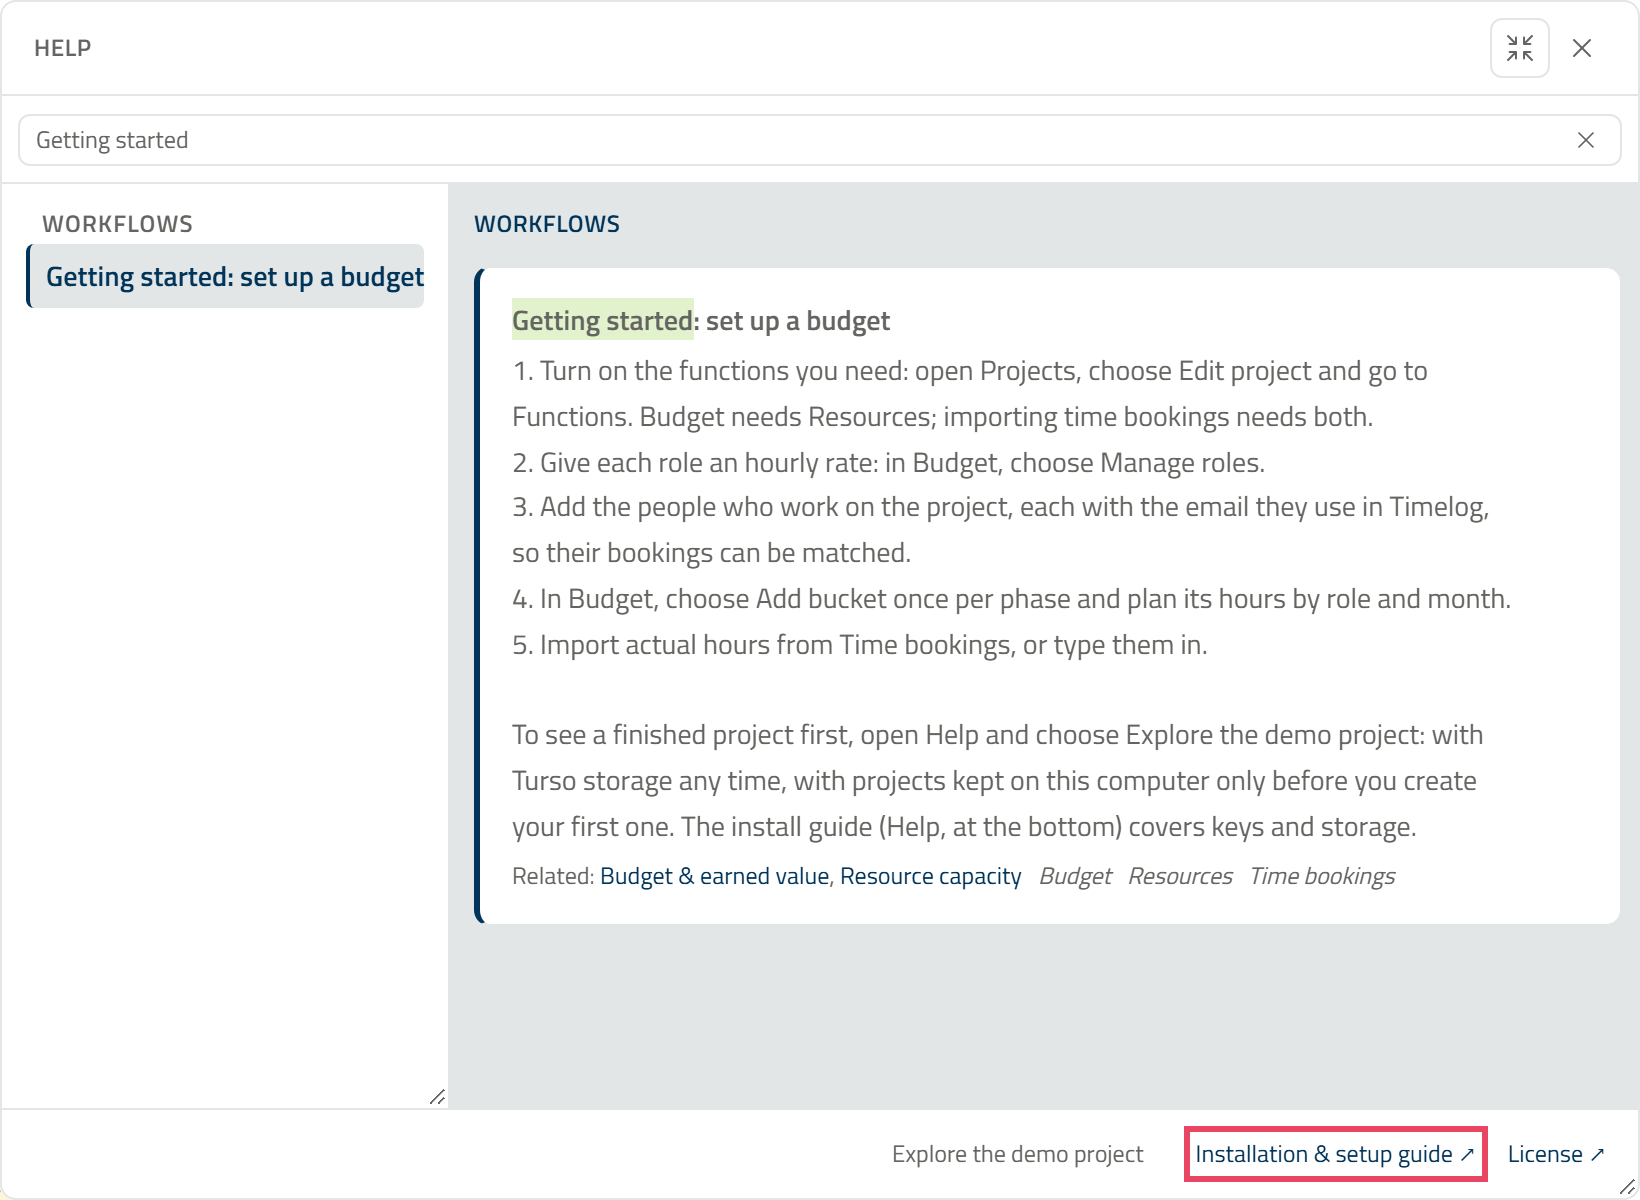
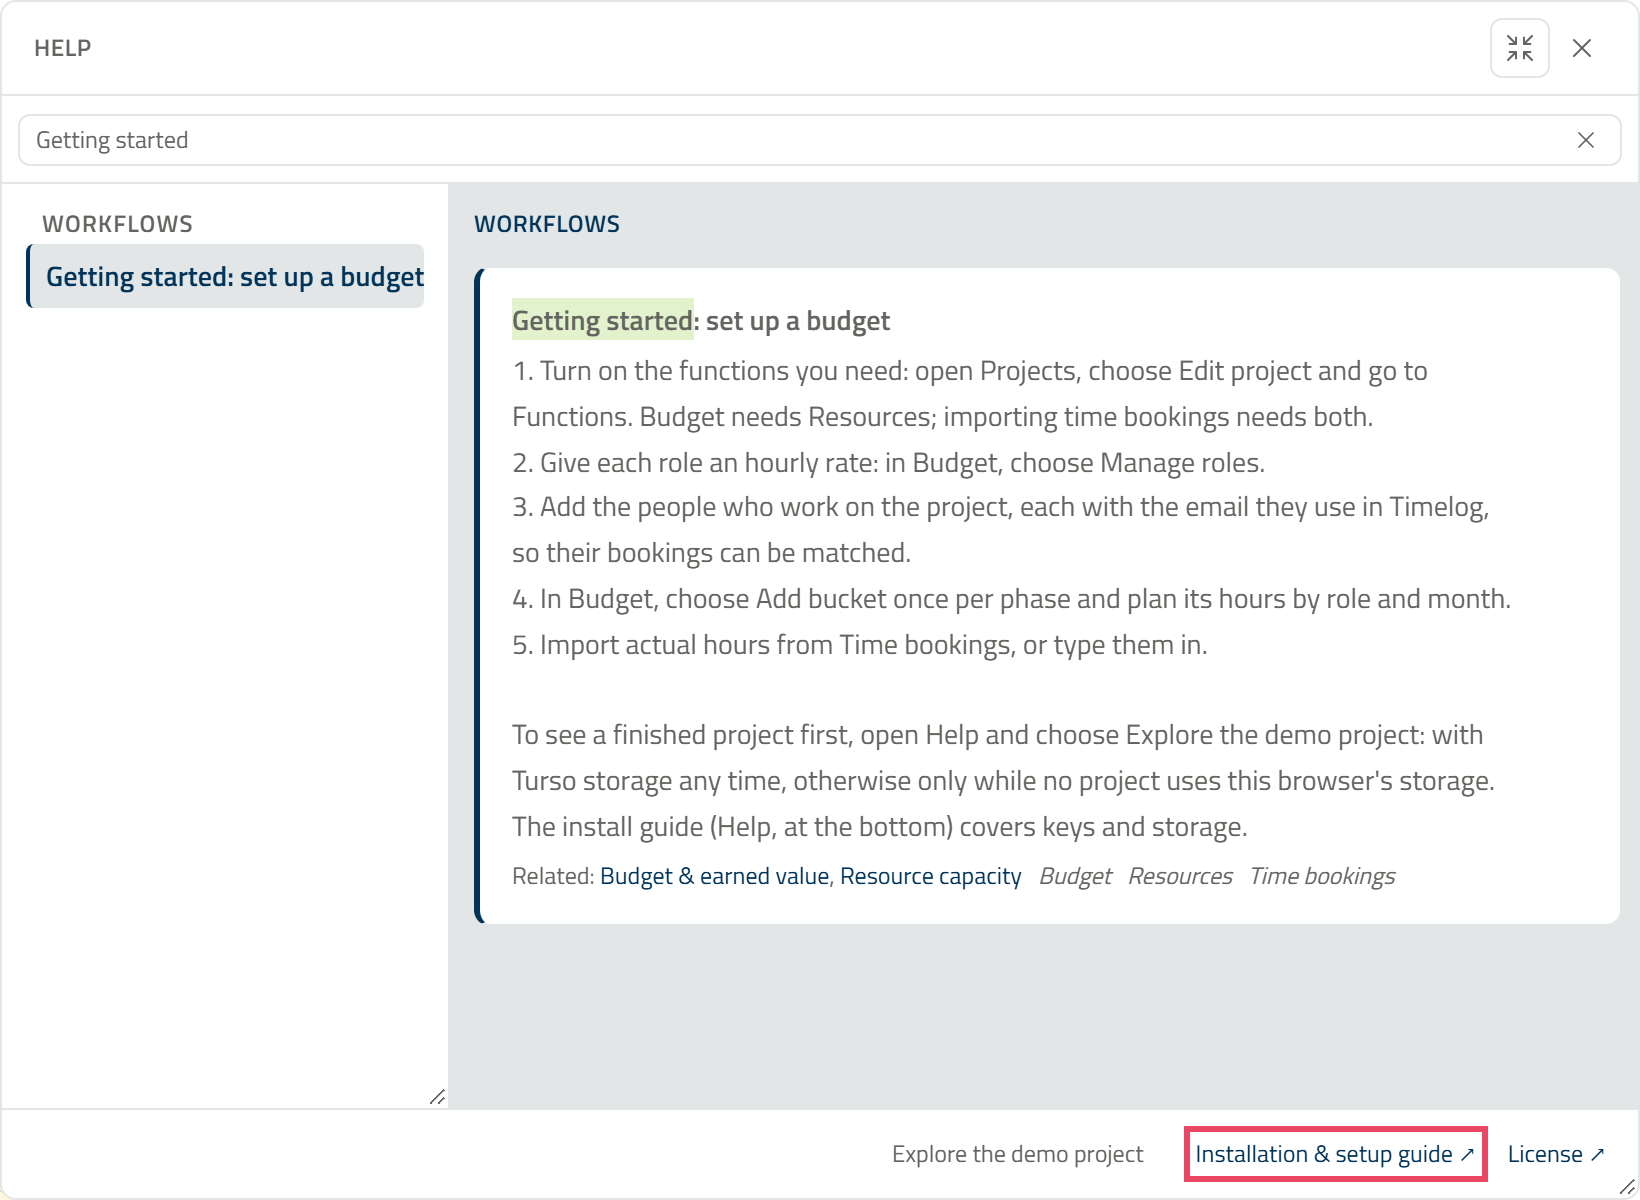
fix: the Getting started entry names the exact case where the demo is refused (§713)

Changed region(s): [[0.311, 0.6475, 0.9018, 0.7092]]

diff --git a/src/app/i18n.de.ts b/src/app/i18n.de.ts
@@ -4026,7 +4026,7 @@ export const de: Record<TranslationKey, string> = {
   helpConceptKnowledgeTitle: "Wissen",
   helpConceptKnowledgeBody: "Was: Die Ansicht Wissen sammelt jedes Dokument, jede Confluence-Seite und jeden Link, der irgendwo im Projekt verknüpft ist — mit einer Aufgabe, einem RAID-Eintrag, einer Änderung, einem Meilenstein, einem Stakeholder oder dem Projekt selbst.\n\nWarum wichtig: Verstreute Links sind schwer zu finden; ein Ort zum Ansehen, Filtern und Öffnen hält Nachweise und Referenzen griffbereit.\n\nIn dieser App: Fügen Sie ein SharePoint-Dokument, eine Confluence-Seiten-URL oder eine beliebige Web-URL hinzu, filtern Sie das Raster nach Quelle, suchen Sie nach Namen und springen Sie direkt zum zugehörigen Element.",
   helpWorkflowGettingStartedTitle: "Erste Schritte: ein Budget einrichten",
-  helpWorkflowGettingStartedBody: "1. Schalten Sie die benötigten Funktionen ein: Öffnen Sie Projekte, wählen Sie [[Projekt bearbeiten]] und gehen Sie zu [[Funktionen]]. Budget braucht Ressourcen; der Import von Zeitbuchungen braucht beides.\n2. Geben Sie jeder Rolle einen Stundensatz: Wählen Sie im Budget [[Rollen verwalten]].\n3. Legen Sie die Personen an, die am Projekt arbeiten, jeweils mit der E-Mail-Adresse, die sie in Timelog verwenden, damit ihre Buchungen zugeordnet werden können.\n4. Wählen Sie im Budget pro Phase einmal [[Bucket hinzufügen]] und planen Sie die Stunden nach Rolle und Monat.\n5. Importieren Sie die Ist-Stunden aus [[Zeitbuchungen]] oder tragen Sie sie von Hand ein.\n\nUm zuerst ein fertiges Projekt zu sehen, öffnen Sie die Hilfe und wählen Sie [[Demoprojekt erkunden]]: mit Turso-Speicher jederzeit, mit Projekten auf diesem Computer nur, bevor Sie Ihr erstes Projekt anlegen. Die Installationsanleitung (in der Hilfe, ganz unten) erklärt Schlüssel und Speicher.",
+  helpWorkflowGettingStartedBody: "1. Schalten Sie die benötigten Funktionen ein: Öffnen Sie Projekte, wählen Sie [[Projekt bearbeiten]] und gehen Sie zu [[Funktionen]]. Budget braucht Ressourcen; der Import von Zeitbuchungen braucht beides.\n2. Geben Sie jeder Rolle einen Stundensatz: Wählen Sie im Budget [[Rollen verwalten]].\n3. Legen Sie die Personen an, die am Projekt arbeiten, jeweils mit der E-Mail-Adresse, die sie in Timelog verwenden, damit ihre Buchungen zugeordnet werden können.\n4. Wählen Sie im Budget pro Phase einmal [[Bucket hinzufügen]] und planen Sie die Stunden nach Rolle und Monat.\n5. Importieren Sie die Ist-Stunden aus [[Zeitbuchungen]] oder tragen Sie sie von Hand ein.\n\nUm zuerst ein fertiges Projekt zu sehen, öffnen Sie die Hilfe und wählen Sie [[Demoprojekt erkunden]]: mit Turso-Speicher jederzeit, sonst nur, solange kein Projekt den Speicher dieses Browsers nutzt. Die Installationsanleitung (in der Hilfe, ganz unten) erklärt Schlüssel und Speicher.",
   helpWorkflowEndToEndTitle: "Ein Projekt von Anfang bis Ende verfolgen",
   helpWorkflowEndToEndBody: "1. Öffnen Sie das Dashboard — prüfen Sie die Gesamt-Ampel (Rot/Gelb/Grün) und die priorisierte Nächste-Aktionen-Liste.\n2. Fügen Sie unter Open Points Ihre Aufgaben hinzu, je mit Verantwortlichem und Fälligkeitsdatum.\n3. Legen Sie wichtige Ergebnisse unter Meilensteine an, damit klar ist, was wann fertig sein muss.\n4. Erfassen Sie Risiken oder Probleme laufend im RAID, damit nichts vergessen wird.\n5. Prüfen Sie das Dashboard täglich — überfällige Punkte werden automatisch markiert und die Nächste-Aktionen-Liste zeigt, was als Nächstes zu tun ist.",
   helpWorkflowPlanTitle: "Mit Meilensteinen & Gantt planen",

diff --git a/src/app/i18n.ts b/src/app/i18n.ts
@@ -4296,7 +4296,7 @@ const enUS = {
   helpConceptKnowledgeTitle: "Knowledge",
   helpConceptKnowledgeBody: "What: The Knowledge view gathers every document, Confluence page, or link connected anywhere in the project — to a task, RAID item, change, milestone, stakeholder, or the project itself.\n\nWhy it matters: Scattered links are hard to find; one place to see, filter, and open them keeps evidence and references at hand.\n\nIn this app: Add a SharePoint document, a Confluence page URL, or any web URL, filter the grid by source, search by name, and jump straight to the item a link is attached to.",
   helpWorkflowGettingStartedTitle: "Getting started: set up a budget",
-  helpWorkflowGettingStartedBody: "1. Turn on the functions you need: open Projects, choose [[Edit project]] and go to [[Functions]]. Budget needs Resources; importing time bookings needs both.\n2. Give each role an hourly rate: in Budget, choose [[Manage roles]].\n3. Add the people who work on the project, each with the email they use in Timelog, so their bookings can be matched.\n4. In Budget, choose [[Add bucket]] once per phase and plan its hours by role and month.\n5. Import actual hours from [[Time bookings]], or type them in.\n\nTo see a finished project first, open Help and choose [[Explore the demo project]]: with Turso storage any time, with projects kept on this computer only before you create your first one. The install guide (Help, at the bottom) covers keys and storage.",
+  helpWorkflowGettingStartedBody: "1. Turn on the functions you need: open Projects, choose [[Edit project]] and go to [[Functions]]. Budget needs Resources; importing time bookings needs both.\n2. Give each role an hourly rate: in Budget, choose [[Manage roles]].\n3. Add the people who work on the project, each with the email they use in Timelog, so their bookings can be matched.\n4. In Budget, choose [[Add bucket]] once per phase and plan its hours by role and month.\n5. Import actual hours from [[Time bookings]], or type them in.\n\nTo see a finished project first, open Help and choose [[Explore the demo project]]: with Turso storage any time, otherwise only while no project uses this browser's storage. The install guide (Help, at the bottom) covers keys and storage.",
   helpWorkflowEndToEndTitle: "Track a project end to end",
   helpWorkflowEndToEndBody: "1. Open Dashboard — check the Overall RAG (Red/Amber/Green) status and the ranked next-actions queue to see what needs attention first.\n2. Go to Open Points and add your tasks, giving each one an owner and a due date.\n3. Add key deliverables in Milestones so the team knows what must be ready and when.\n4. Log any risks or problems in RAID as they come up so nothing is forgotten.\n5. Check the Dashboard daily — overdue items are flagged automatically and the next-actions queue tells you exactly what to act on next.",
   helpWorkflowPlanTitle: "Plan with milestones & Gantt",

diff --git a/src/app/help-content.test.ts b/src/app/help-content.test.ts
@@ -33,12 +33,13 @@ describe("help-content backbone", () => {
     expect(entry.relatedViews).toEqual(["budget", "resources", "timelog"]);
   });
 
-  // The demo is refused on local storage once a project exists (isLocalDemoBlocked), which is
-  // nearly every user following this entry: it must say when the demo opens, not promise it.
+  // The demo is refused while a project uses this browser's storage and Turso is not usable
+  // (isLocalDemoBlocked: both conditions); a project in a file does not block it. The entry must
+  // say exactly that, in the words of the refusal itself (demoLocalBlocked).
   it("says when the demo can open, in both languages", async () => {
     await loadI18n("de");
-    expect(t("en-US", "helpWorkflowGettingStartedBody")).toMatch(/Turso storage any time.*before you create your first one/);
-    expect(t("de", "helpWorkflowGettingStartedBody")).toMatch(/Turso-Speicher jederzeit.*bevor Sie Ihr erstes Projekt anlegen/);
+    expect(t("en-US", "helpWorkflowGettingStartedBody")).toMatch(/Turso storage any time, otherwise only while no project uses this browser.s storage/);
+    expect(t("de", "helpWorkflowGettingStartedBody")).toMatch(/Turso-Speicher jederzeit, sonst nur, solange kein Projekt den Speicher dieses Browsers nutzt/);
   });
 
   it("every group in HELP_GROUP_ORDER has a label", () => {
